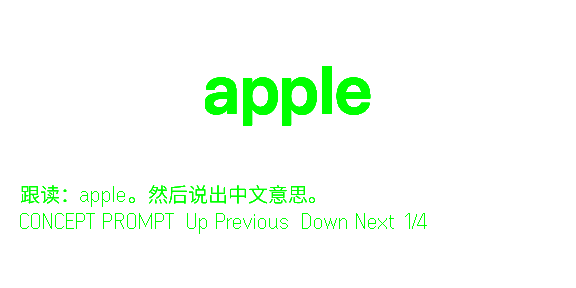
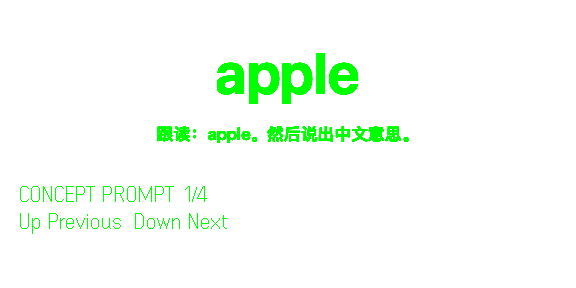
Fix G2 visual sync for 0.1.6

diff --git a/src/main.ts b/src/main.ts
@@ -255,8 +255,7 @@ function updateWebView(): void {
 }
 
 function glassesContent(card: LearningCard | null): string {
-  const prompt = fit(coachLineEl.textContent || card?.prompt || "Explain aloud", 42);
-  return `${prompt}\n${sessionLabel(sessionState)}  Up Previous  Down Next  ${progressText()}`;
+  return `${sessionLabel(sessionState)}  ${progressText()}\nUp Previous  Down Next`;
 }
 
 function displayText(card: LearningCard | null): TextContainerProperty {
@@ -286,7 +285,17 @@ function conceptImage(): ImageContainerProperty {
 
 let imageRenderQueue: Promise<void> = Promise.resolve();
 let lastRenderedConcept = "";
+let imageRequestRevision = 0;
+let renderRevision = 0;
 let lastGestureAt = 0;
+
+function visualPrompt(card: LearningCard | null): string {
+  return fit(coachLineEl.textContent || card?.prompt || "Explain aloud", 34);
+}
+
+function conceptVisualKey(card: LearningCard | null): string {
+  return [card?.id || "no-cards", visualPrompt(card)].join("|");
+}
 
 async function conceptPng(card: LearningCard | null): Promise<Uint8Array> {
   const canvas = document.createElement("canvas");
@@ -302,13 +311,23 @@ async function conceptPng(card: LearningCard | null): Promise<Uint8Array> {
   context.textBaseline = "middle";
 
   const text = fit(card?.front || "No cards", 20);
-  let fontSize = 68;
+  let fontSize = 58;
   context.font = `600 ${fontSize}px -apple-system, BlinkMacSystemFont, "Noto Sans", sans-serif`;
   while (fontSize > 32 && context.measureText(text).width > 264) {
     fontSize -= 2;
     context.font = `600 ${fontSize}px -apple-system, BlinkMacSystemFont, "Noto Sans", sans-serif`;
   }
-  context.fillText(text, 144, 72, 264);
+  context.fillText(text, 144, 56, 264);
+
+  const prompt = visualPrompt(card);
+  context.fillStyle = "#cfeee7";
+  let promptSize = 17;
+  context.font = `500 ${promptSize}px -apple-system, BlinkMacSystemFont, "Noto Sans", sans-serif`;
+  while (promptSize > 12 && context.measureText(prompt).width > 264) {
+    promptSize -= 1;
+    context.font = `500 ${promptSize}px -apple-system, BlinkMacSystemFont, "Noto Sans", sans-serif`;
+  }
+  context.fillText(prompt, 144, 118, 264);
 
   const blob = await new Promise<Blob | null>(resolve => canvas.toBlob(resolve, "image/png"));
   return blob ? new Uint8Array(await blob.arrayBuffer()) : new Uint8Array();
@@ -316,16 +335,21 @@ async function conceptPng(card: LearningCard | null): Promise<Uint8Array> {
 
 async function updateConceptImage(card: LearningCard | null, force = false): Promise<void> {
   if (!bridge || !bridgeReady) return;
-  const conceptKey = card?.id || "no-cards";
+  const conceptKey = conceptVisualKey(card);
   if (!force && conceptKey === lastRenderedConcept) return;
+  const requestRevision = ++imageRequestRevision;
   const imageData = await conceptPng(card);
   imageRenderQueue = imageRenderQueue.catch(() => undefined).then(async () => {
+    if (requestRevision !== imageRequestRevision) {
+      void logEvent("g2_concept_image_skipped", { reason: "stale", conceptKey });
+      return;
+    }
     const result = await bridge!.updateImageRawData(new ImageRawDataUpdate({
       containerID: CONCEPT_IMAGE_ID,
       containerName: "concept-image",
       imageData
     }));
-    if (result === "success") lastRenderedConcept = conceptKey;
+    if (result === "success" && requestRevision === imageRequestRevision) lastRenderedConcept = conceptKey;
     void logEvent("g2_concept_image", { bytes: imageData.length, result });
   });
   await imageRenderQueue;
@@ -334,6 +358,7 @@ async function updateConceptImage(card: LearningCard | null, force = false): Pro
 async function renderGlasses(rebuild = false): Promise<void> {
   if (!bridge) return;
   const card = currentCard();
+  const currentRender = ++renderRevision;
   try {
     if (rebuild) {
       await bridge.rebuildPageContainer(new RebuildPageContainer({
@@ -343,15 +368,17 @@ async function renderGlasses(rebuild = false): Promise<void> {
       }));
       await new Promise(resolve => window.setTimeout(resolve, 800));
       await updateConceptImage(card, true);
+      if (currentRender !== renderRevision) return;
       return;
     }
 
+    await updateConceptImage(card);
+    if (currentRender !== renderRevision) return;
     await bridge.textContainerUpgrade(new TextContainerUpgrade({
       containerID: DISPLAY_ID,
       containerName: "learn-display",
       content: glassesContent(card)
     }));
-    await updateConceptImage(card);
   } catch (error) {
     setStatus("bridge error");
     console.warn("Failed to render glasses learning page", error);

diff --git a/README.md b/README.md
@@ -100,13 +100,16 @@ npm run pack:ehpk
 The current upload artifact is:
 
 ```text
-release/learn-coach-0.1.5.ehpk
+release/learn-coach-0.1.6.ehpk
 ```
 
-Version `0.1.5` is the current private-test candidate: it keeps the stable
-single-image G2 surface, uses swipe up/down for previous/next, ignores tap,
+Version `0.1.6` is the current private-test candidate: it renders the concept
+and short coach prompt inside the same large image to avoid image/text mismatch,
+uses swipe up/down for previous/next, ignores tap, drops stale image updates,
 returns structured tutor feedback, conservatively parses voice commands, dedupes
-repeated transcripts, and prevents concurrent STT requests. Keep
+repeated transcripts, and prevents concurrent STT requests. Do not publish
+`0.1.5`; real-device feedback showed image/prompt mismatch and delayed stale
+image updates. Keep
 `release/learn-coach-0.1.2.ehpk` as the text-only stable fallback. Do not use
 `0.1.1`; its four startup image transfers caused a real G2 BLE disconnection.
 
